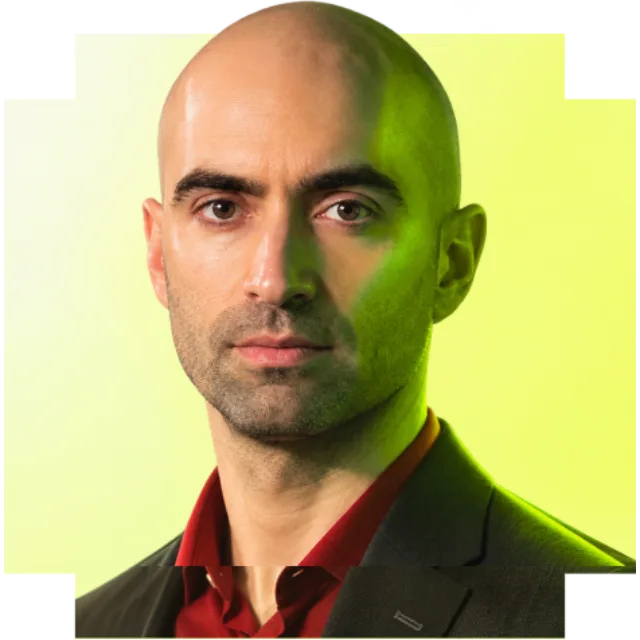
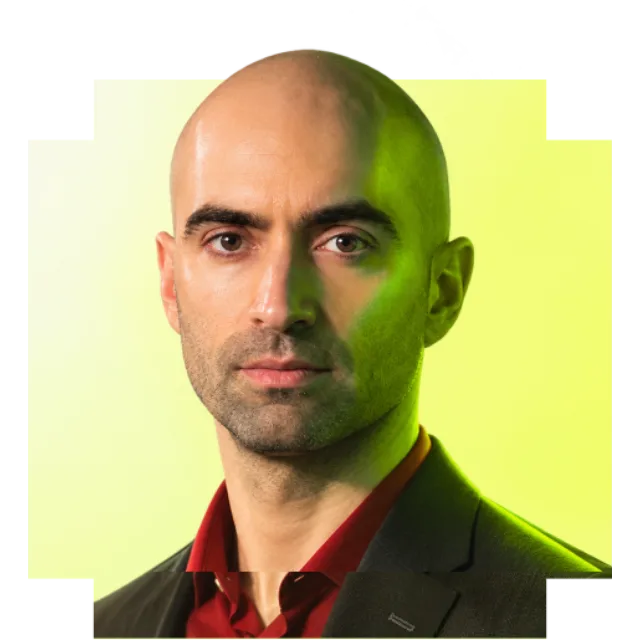
Announce Anastasiia Bykova as a 2027 speaker
Render both 2027 portraits from the same source box so their frames
match, drop the year labels from the cards, and show the floating
'View speaker & talk' badge on every announced card. Long talk titles
drop a size and the dialog panel scrolls instead of clipping.

diff --git a/2027/index.html b/2027/index.html
@@ -424,18 +424,19 @@
         <div class="speakers-hub__row">
           <article class="speaker-teaser speaker-teaser--announced speaker">
             <a class="speaker__trigger" href="#speaker/laurent-cozic" data-speaker="laurent-2027" data-speaker-edition="2027" aria-haspopup="dialog" aria-controls="speaker-dialog">
[1 lines of base64/hex data omitted]
-              <span class="speaker__year">2027 · First announced</span>
[1 lines of base64/hex data omitted]
               <span class="speaker__name">Laurent Cozic</span>
               <span class="speaker__role">Founder &amp; lead developer, Joplin</span>              <span class="speaker__open">View speaker &amp; talk <span aria-hidden="true">↗</span></span>
             </a>
           </article>
 
-          <div class="speaker-teaser--pending">
-            <div class="speaker-pending__portrait" aria-hidden="true"></div>
-            <span class="speaker__year">Coming soon</span>
-            <div class="speaker-pending__lines" aria-hidden="true"></div>
-          </div>
+          <article class="speaker-teaser speaker-teaser--announced speaker">
+            <a class="speaker__trigger" href="#speaker/anastasiia-bykova" data-speaker="anastasiia-2027" data-speaker-edition="2027" aria-haspopup="dialog" aria-controls="speaker-dialog">
[1 lines of base64/hex data omitted]
+              <span class="speaker__name">Anastasiia Bykova</span>
+              <span class="speaker__role">Head of Product, Marketplace Quality &amp; AI, Yango</span>              <span class="speaker__open">View speaker &amp; talk <span aria-hidden="true">↗</span></span>
+            </a>
+          </article>
 
           <div class="speaker-teaser--pending">
             <div class="speaker-pending__portrait" aria-hidden="true"></div>
@@ -1350,6 +1351,22 @@
         ]
       };
 
+      speakerData['anastasiia-2027'] = {
+        name: 'Anastasiia Bykova',
+        role: 'Head of Product, Marketplace Quality & AI, Yango and Yandex Go',
+        image: 'assets/speakers/2027/anastasiia.webp',
+        cutout: true,
+        title: 'Turning Every Trip into Insight: Embedding AI on Both Sides of a Ride-Hailing Marketplace',
+        bio: 'Head of Product, Marketplace Quality & AI at Yango and Yandex Go, responsible for 25+ ride-hailing markets across MENA, CIS, Africa and LATAM. I have nearly seven years of experience building digital products across ride-hailing, fintech and marketplaces, and I drive AI adoption across teams, from LLM pipelines in production to AI agents that product managers build themselves. I’d love to share practical lessons with builders across Asia.',
+        quote: 'Across 12 countries, including Nepal, and around 10 million ride orders a day, we embedded AI into a ride-hailing marketplace to turn rider and driver calls and chats in many languages and dialects into a continuous flow of insights, hypotheses and new product features. An AI agent also explains each driver’s rating and suggests what to improve, so drivers grow their ratings and earnings while riders get cleaner cars and more punctual, courteous drivers. I’ll share how to build such an engine, how to handle dialects and personal data, and where a human adds the most value.',
+        accent: '#c1ff4c',
+        companies: [
+          { mark: 'Y', name: 'Yango', url: 'https://yango.com' },
+          { mark: 'YG', name: 'Yandex Go' }
+        ],
+        links: []
+      };
+
       /* spoke at two editions, so one card covers both */
       speakerData.gaurav = {
         name: 'Gaurav Sen',
@@ -1471,7 +1488,9 @@
         var speaker = speakerData[speakerOrder[activeSpeakerIndex]];
         var count = String(activeSpeakerIndex + 1).padStart(2, '0') + ' / ' + String(speakerOrder.length).padStart(2, '0');
         speakerDialog.style.setProperty('--speaker-accent', speaker.accent);
-        document.getElementById('speaker-dialog-title').textContent = speaker.title;
+        var dialogTitle = document.getElementById('speaker-dialog-title');
+        dialogTitle.textContent = speaker.title;
+        dialogTitle.classList.toggle('is-long', speaker.title.length > 60);
         document.getElementById('speaker-dialog-name').textContent = speaker.name;
         document.getElementById('speaker-dialog-role').textContent = speaker.role;
         document.getElementById('speaker-dialog-bio').textContent = speaker.bio;
@@ -1709,8 +1728,8 @@
 
       /* ---- mouse-only speaker CTA, outside the card's transform ---- */
       (function initSpeakerCursorCta() {
-        var card = document.querySelector('.speaker-teaser--announced .speaker__trigger');
-        var cta = card && card.querySelector('.speaker__open');
+        var cards = Array.prototype.slice.call(document.querySelectorAll('.speaker-teaser--announced .speaker__trigger'));
+        var cta = cards.length && cards[0].querySelector('.speaker__open');
         if (!cta) return;
 
         var enabled = window.matchMedia('(hover: hover) and (pointer: fine) and (prefers-reduced-motion: no-preference)');
@@ -1751,15 +1770,17 @@
         }
 
         function syncMode() {
-          card.classList.toggle('has-cursor-cta', enabled.matches);
+          cards.forEach(function (card) { card.classList.toggle('has-cursor-cta', enabled.matches); });
           hide();
         }
 
-        card.addEventListener('pointerenter', track);
-        card.addEventListener('pointermove', track, { passive: true });
-        card.addEventListener('pointerleave', hide);
-        card.addEventListener('pointercancel', hide);
-        card.addEventListener('click', hide);
+        cards.forEach(function (card) {
+          card.addEventListener('pointerenter', track);
+          card.addEventListener('pointermove', track, { passive: true });
+          card.addEventListener('pointerleave', hide);
+          card.addEventListener('pointercancel', hide);
+          card.addEventListener('click', hide);
+        });
         window.addEventListener('blur', hide);
         enabled.addEventListener('change', syncMode);
         syncMode();

diff --git a/2027/assets/css/style.css b/2027/assets/css/style.css
@@ -1524,12 +1524,14 @@ main > .intro-band > .shell { position: relative; z-index: 1; }
 .speaker-dialog__links a { padding:.48rem .68rem; border:1px solid rgba(255,255,255,.16); color:var(--text-muted); font-family:var(--pixel); font-size:.53rem; letter-spacing:.04em; text-transform:uppercase; }
 .speaker-dialog__links a:hover { border-color:var(--speaker-accent); color:var(--speaker-accent); transform:translateY(-2px); }
 .speaker-dialog__content {
-  position:relative; display:flex; flex-direction:column; justify-content:center;
-  padding:clamp(1.75rem,4vw,3rem); align-self:stretch; overflow:hidden;
+  position:relative; display:flex; flex-direction:column; justify-content:safe center;
+  padding:clamp(1.75rem,4vw,3rem); align-self:stretch; overflow-x:hidden; overflow-y:auto;
 }
 .speaker-dialog__content::before { content:'AI'; position:absolute; right:1rem; bottom:-2rem; color:rgba(255,255,255,.025); font-family:var(--pixel); font-size:10rem; line-height:1; pointer-events:none; }
 .speaker-dialog__kicker { position:relative; z-index:1; font-family:var(--pixel); font-size:.6rem; letter-spacing:.1em; text-transform:uppercase; color:var(--speaker-accent); }
 .speaker-dialog__content h2 { position:relative; z-index:1; max-width:38rem; margin-top:.75rem; font-family:var(--display); font-size:clamp(1.8rem,3.5vw,3.2rem); line-height:1; letter-spacing:-.04em; }
+/* talk titles past ~60 characters drop a size so they fit the panel */
+.speaker-dialog__content h2.is-long { font-size:clamp(1.6rem,2.6vw,2.4rem); line-height:1.05; }
 .speaker-dialog__bio { position:relative; z-index:1; max-width:38rem; margin-top:1.1rem; color:var(--text-muted); font-size:.88rem; line-height:1.6; }
 .speaker-dialog__quote { position:relative; z-index:1; max-width:38rem; margin-top:1.25rem; padding:1rem 1.1rem 1rem 2.8rem; border:1px solid rgba(255,255,255,.13); background:#0d1019; clip-path:polygon(0 10px,10px 10px,10px 0,100% 0,100% calc(100% - 10px),calc(100% - 10px) calc(100% - 10px),calc(100% - 10px) 100%,0 100%); }
 .speaker-dialog__quote > span { position:absolute; left:.9rem; top:.45rem; color:var(--speaker-accent); font-family:var(--pixel); font-size:2.4rem; line-height:1; }
